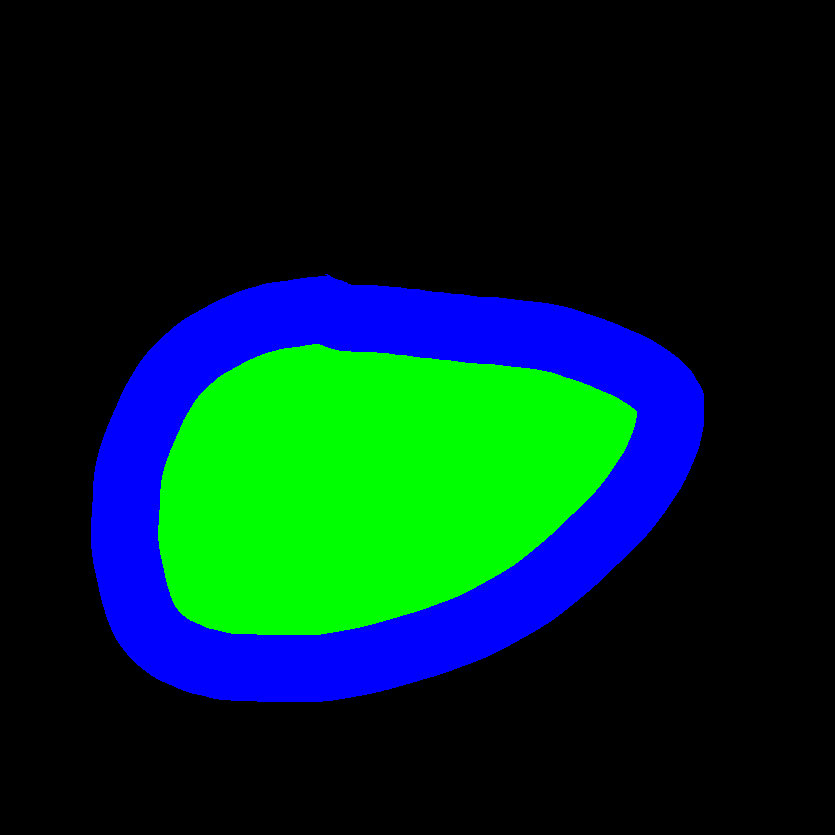
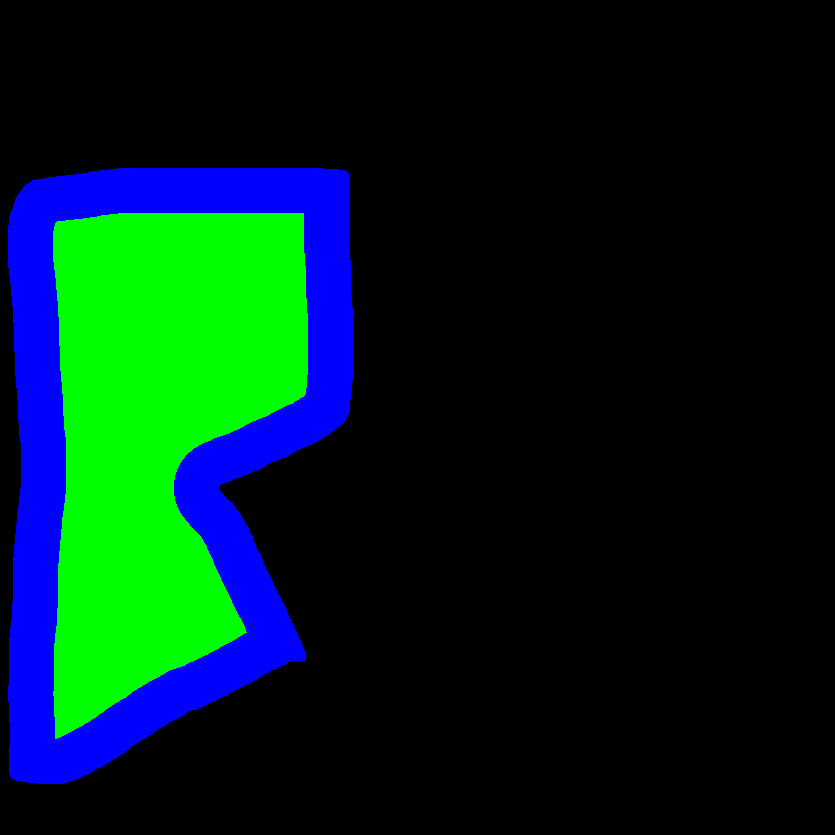
服气，一堆bug。现在只能一个overview

diff --git a/client/src/components/paperCanvas.vue b/client/src/components/paperCanvas.vue
@@ -2,10 +2,10 @@
 import { ref } from 'vue'
 import paper from 'paper'
 import { useBackgroundStore } from '~/stores/background'
-
+import { useCollageSeriesStore } from '~/stores/collageSeries'
 const paperCanvasRef = ref<HTMLCanvasElement | null>(null)
 const backgroundStore = useBackgroundStore()
-
+const collageSeriesStore = useCollageSeriesStore()
 onMounted(() => {
     nextTick(() => {
         // 绑定 Paper.js 到 canvas
@@ -18,10 +18,13 @@ onMounted(() => {
         paperCanvasRef.value.width = size
         paperCanvasRef.value.height = size
         paper.view.viewSize = new paper.Size(size, size);
-        
+        const currentOverview = collageSeriesStore.overviews[collageSeriesStore.currentOverviewIndex]
+        const overviewId = currentOverview?.overviewId
+        console.log('overviewId:', overviewId)
+        console.log('background:', backgroundStore.getCurrentOverviewBackground(overviewId))
         // 如果background存在，绘制到画布上
-        if (backgroundStore.background) {
-            const backgroundImage = new paper.Raster(backgroundStore.background);
+        if (backgroundStore.getCurrentOverviewBackground(overviewId)) {
+            const backgroundImage = new paper.Raster(backgroundStore.getCurrentOverviewBackground(overviewId));
             backgroundImage.onLoad = () => {
                 // 计算合适的缩放比例，使图片完全适应画布
                 const scaleX = size / backgroundImage.width;

diff --git a/client/src/composables/server.ts b/client/src/composables/server.ts
@@ -440,11 +440,12 @@ export async function handleMarkerDropCanvas(markerId: string,pos: [number,numbe
     if (tempObjects && tempObjects.length > 0) {
       tempCanvas.add(...tempObjects)
     }
-  }
-  const overview = collageSeriesStore.overviews[collageSeriesStore.currentOverviewIndex]
-  const slide = overview.collageSeries[collageSeriesStore.currentSlideIndex]
-  collageSeriesStore.restoreCustomProperties(tempCanvas, slide.dataTypeArray, slide.markerIdArray, slide.forceTypeArray)
-  const container = processContainer(tempCanvas)
+  } 
+  const container = tempCanvas.toDataURL({
+    format: 'png',
+    multiplier: 1
+  })
+ 
   const data = pharseData(markerId)  
   const response = await fetch('http://localhost:5000/markerDropApi', {
     method: 'POST',